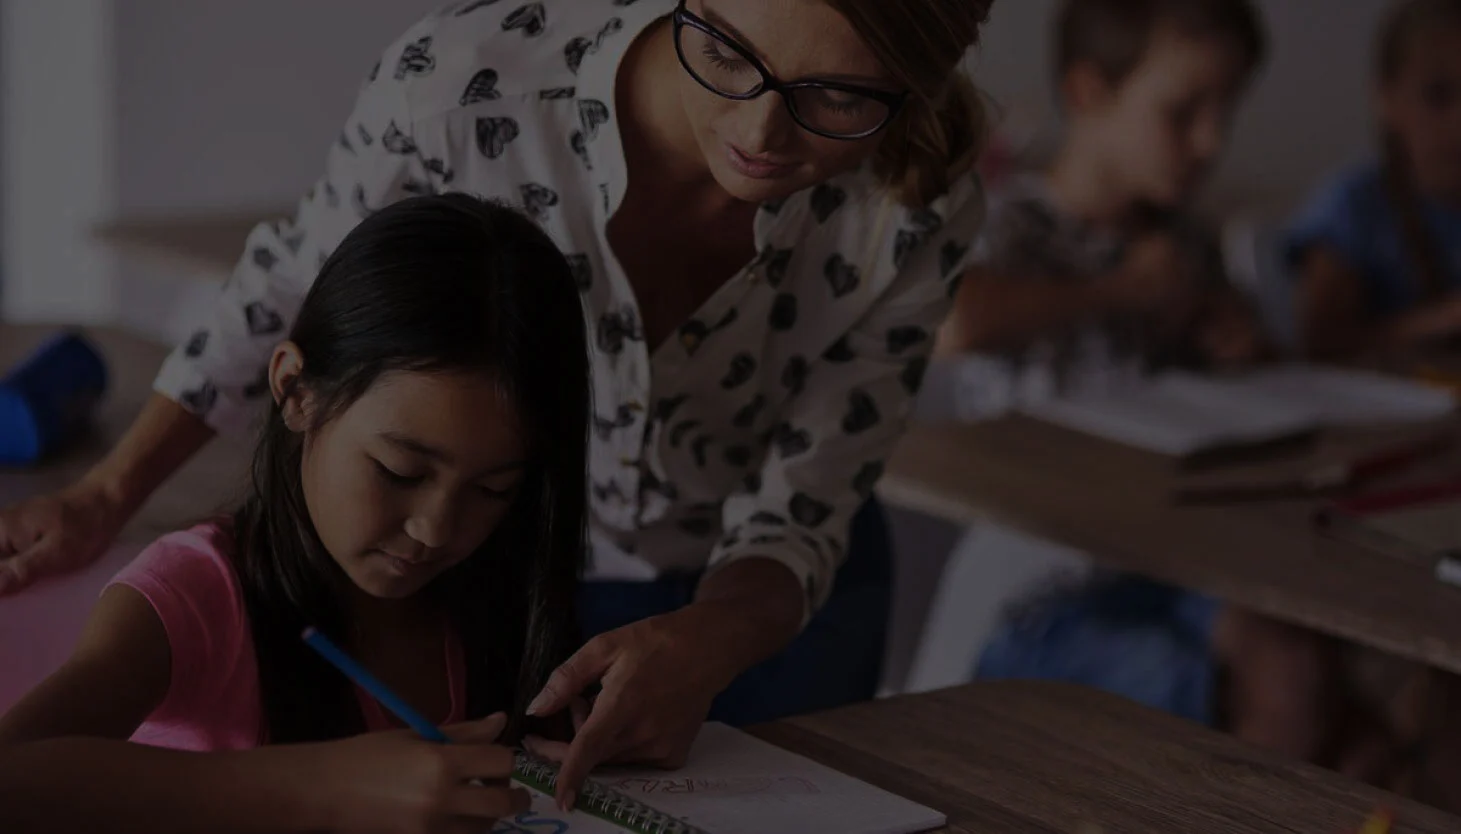
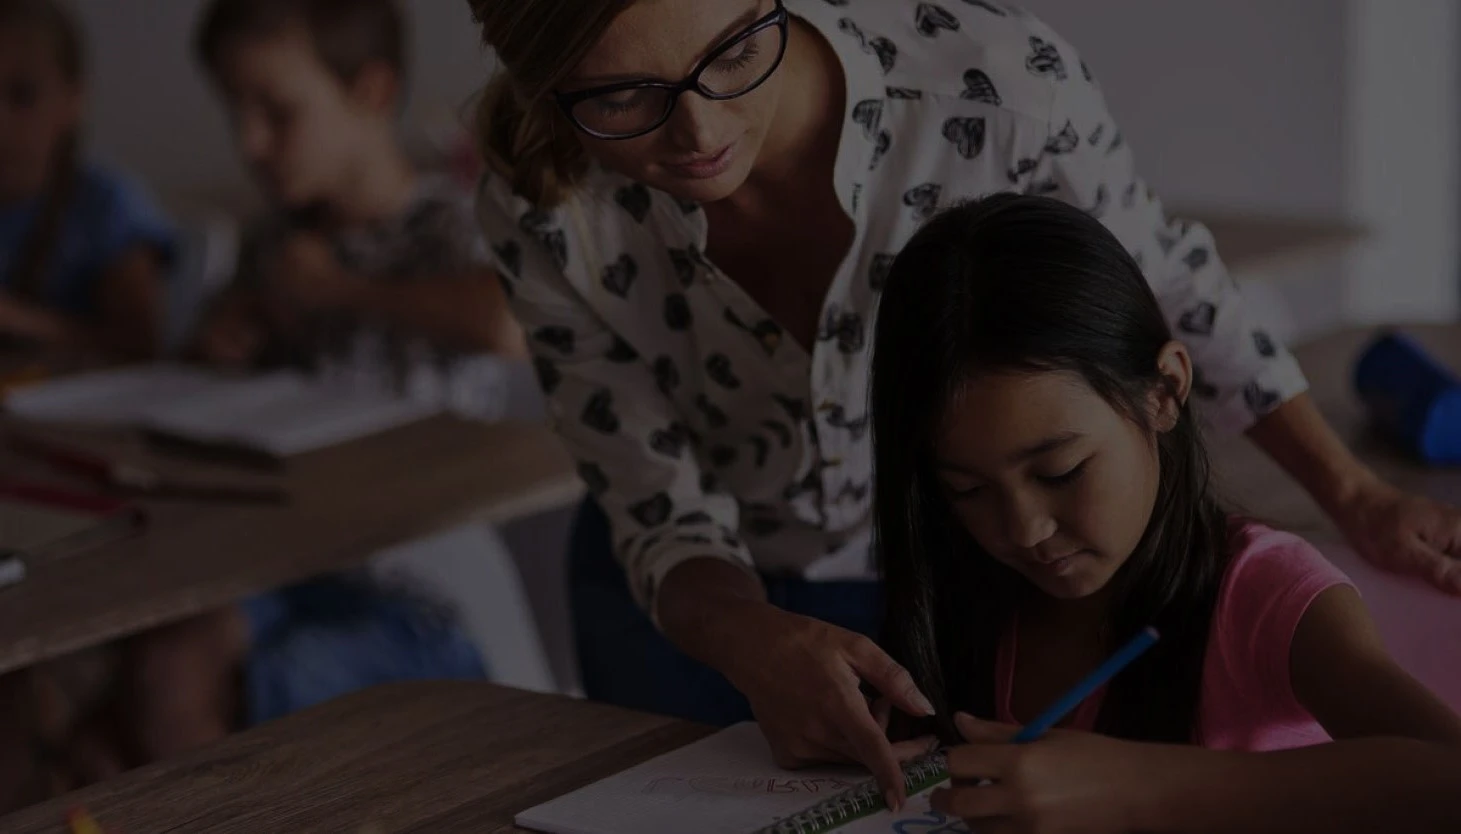
perf: optimize homepage images

diff --git a/src/sections/Header.tsx b/src/sections/Header.tsx
@@ -1,41 +1,39 @@
 import { Navbar, PrimaryAnchor } from '@/components';
+import Image from 'next/image';
+
+import headerBanner from '../../public/images/teacher-and-little-girl-banner.webp';
 
 export function Header() {
   return (
-    <>
-      <link
-        rel='preload'
-        fetchPriority='high'
-        as='image'
-        href='/images/teacher-and-little-girl-banner.webp'
-        type='image/webp'
+    <header className='w-full h-[800px] md:h-[650px] relative'>
+      <Navbar />
+
+      <div className='max-container mt-14 sm:mt-28 md:mt-12 lg:mt-24 wide:ps-24 text-light w-3/4 flex flex-col gap-8'>
+        <h1 className='text-3xl sm:text-4xl leading-10 font-bold'>
+          Simplifique sua Gestão
+          <br />
+          Educacional com
+          <br />
+          Nossas Solucões
+        </h1>
+        <p>
+          Sistemas de gestão educacional integrados de maneira ágil e<br />
+          segura. Tudo em uma única plataforma.
+        </p>
+
+        <PrimaryAnchor href='#'>Conhecer nossas solucões</PrimaryAnchor>
+      </div>
+
+      <Image
+        src={headerBanner}
+        alt='Teacher and little girl banner'
+        width={1461}
+        height={834}
+        priority={true}
+        loading='eager'
+        className='absolute top-0 left-1/2 -translate-x-1/2
+          h-[90%] w-full object-cover max-container mt-16 -z-10'
       />
-
-      <header className='w-full h-[800px] md:h-[650px] relative'>
-        <Navbar />
-
-        <div className='max-container mt-14 sm:mt-28 md:mt-12 lg:mt-24 wide:ps-24 text-light w-3/4 flex flex-col gap-5'>
-          <h1 className='text-3xl sm:text-4xl leading-10 font-bold'>
-            Simplifique sua gestão
-            <br />
-            educacional com
-            <br />
-            nossas solucões
-          </h1>
-          <p>
-            Sistemas de gestão educacional integrados de maneira ágil e<br />
-            segura. Tudo em uma única plataforma.
-          </p>
-
-          <PrimaryAnchor href='#'>Conhecer nossas solucões</PrimaryAnchor>
-        </div>
-        {/* <div className='absolute top-0 left-0 w-full h-full bg-header bg-center bg-cover -scale-x-100 -z-10' /> */}
-        <div
-          className='absolute top-0 left-0 w-full h-full
-            bg-[url("/images/teacher-and-little-girl-banner.webp")]
-            bg-center bg-cover -scale-x-100 -z-10'
-        />
-      </header>
-    </>
+    </header>
   );
 }

diff --git a/src/sections/Footer.tsx b/src/sections/Footer.tsx
@@ -25,7 +25,7 @@ export function Footer() {
             </h2>
           </Link>
 
-          <p className='pt-5 pb-8 md:pr-12 info-text !text-light/70'>
+          <p className='pt-5 pb-8 md:pr-12 info-text !text-lg !leading-6 !text-light/70'>
             Nossa fábrica de software é focada nos resultados dos nossos
             clientes, entregando soluções eficientes e inovadoras para
             impulsionar seus negócios.
@@ -67,7 +67,7 @@ export function Footer() {
               <Link
                 key={`footer-link-${footerLink.title}-${link.label}`}
                 href={link.link}
-                className='info-text !text-light/70 mb-1 hover:!text-secondary'
+                className='info-text !text-lg !text-light/70 mb-3 hover:!text-secondary'
               >
                 {link.label}
               </Link>
@@ -81,7 +81,7 @@ export function Footer() {
             <span>8 AM - 8 PM, Segunda - Domingo</span>
           </div>
 
-          <p className='py-4 mb-4 info-text !text-light/70'>
+          <p className='py-4 mb-4 info-text !text-lg !leading-6 !text-light/70'>
             Nosso Suporte está disponível 24/7 para responder suas dúvidas.
           </p>
 

diff --git a/src/sections/SimplifiedManagement.tsx b/src/sections/SimplifiedManagement.tsx
@@ -1,7 +1,7 @@
 import { simplifiedManagementData } from '@/constants';
 import Image from 'next/image';
 
-import teacherWithHerStudents from '../../public/images/teacher-with-her-students.jpg';
+import teacherWithHerStudents from '../../public/images/teacher-with-her-students.webp';
 
 export function SimplifiedManagement() {
   return (

diff --git a/src/sections/Benefits.tsx b/src/sections/Benefits.tsx
@@ -1,7 +1,7 @@
 import { benefits } from '@/constants';
 import Image from 'next/image';
 
-import universityStudents from '../../public/images/university-students-throwing-their-caps-up.jpg';
+import universityStudents from '../../public/images/university-students-throwing-their-caps-up.webp';
 
 export function Benefits() {
   return (

diff --git a/src/sections/InfoCards.tsx b/src/sections/InfoCards.tsx
@@ -9,7 +9,7 @@ export function InfoCards() {
         <Card
           {...cardProps}
           key={`card-${cardProps.title}`}
-          className='w-full lg:w-[48%] xl:w-[23%]'
+          className='w-full lg:w-[48%] xl:w-[23%] z-10'
         />
       ))}
     </section>
